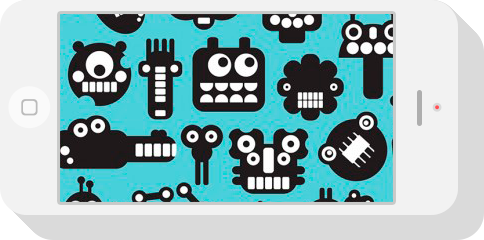
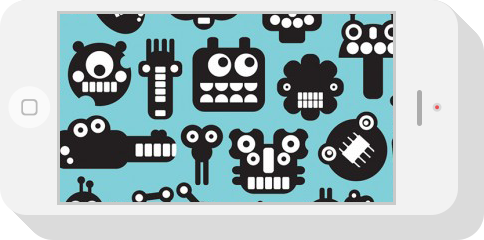
style: fixed style

Changed region(s): [[0.124, 0.0583, 0.8368, 0.8458]]

diff --git a/singolo1.css b/singolo1.css
@@ -95,19 +95,22 @@ p {
 
 .slider {
     background-color: #f06c64;
-    padding: 53px 0 53px;
+    padding: 53px 0 55px;
     border-bottom: 7px solid #ea676b;
 
 }
 .iphone__vertical {
-    position: relative;
-    right: 5px;
+    /* padding-right: 17px; */
+    padding-right: 17px;
+
 }
 
 .iphone_horizontal {
-    position: relative;
-    left: 7px;
-    bottom: 1px;
+    /* padding: 0 0 5px 5px; */
+    /* margin-bottom: 1px;
+    padding-left: 2px; */
+    padding-left: 2px;
+    padding-bottom: 2px;
 }
 
 .slider__main {
@@ -125,18 +128,23 @@ p {
 }
 
 .slider__arrow__left {
-    background: url('./assets/image/prev.png');
-    position: relative;
+    background: url('./assets/image/chev.svg');
+    /* position: relative;
     left: 2px;
-    bottom: 2px;
+    bottom: 2px; */
+    margin-left: 2px;
+    margin-bottom: 2px;
 
 }
 
 .slider__arrow__right {
-    background: url('./assets/image/next.png');
-    position: relative;
+    background: url('./assets/image/chev.svg');
+    /* position: relative;
     left: 1px;
-    bottom: 2px;
+    bottom: 2px; */
+    margin-left: 1px;
+    margin-bottom: 2px;
+    transform: rotate(180deg)
 
 }
 
@@ -147,49 +155,102 @@ p {
 
   .services {
     background-color: #f2f2f2;
-    padding: 62px 0 26px;
+    padding: 55px 0 26px;
   }
-  .services__inner {
-    display: flex;
-    flex-wrap: wrap;
-    justify-content: space-between;
-  }
-  .services__item {
-      width: 33.3%;
+
+  /* .services__main {
       display: flex;
-      flex-direction: row;
-      padding-bottom: 29px;
-  }
-.services__logo {
-    padding-right: 20px;
-}
-.services__title {
+      flex-direction: column; */
+  /* } */
+
+  .services__title {
     color: #666d89;
     font: 700 30px 'latoblack', sans-serif;
-    padding-bottom: 18px;
-    letter-spacing: -1px;
+    padding-bottom: 14px;
+    letter-spacing: -0.01px;
 
 }
 
 .services__text {
+    font: 300 1.8rem/1.7em 'latolight', sans-serif;
     color: #767e9e;
-    font: 300 18px/30px 'latolight', sans-serif;
-    padding-bottom: 44px;
-    letter-spacing: -0.5px;
+    text-align: justify;
+    overflow: hidden;
+    letter-spacing: -0.01875rem;
+}
+
+.services__inner {
+    display: flex;
+    flex-wrap: wrap;
+    padding-top: 12px;
+    justify-content: space-between;
+
+}
+
+.services__item {
+    display: flex;
+    align-items: flex-start;
+    height: 90px;
+    width: 300px;
+    overflow: hidden;
+    margin-top: 33px;
+}
+.services__logo {
+    /* padding-right: 10px; */
+    width: 59px;
+    height: 59px;
+    padding-top: 2px;
+}
+.services__description {
+    padding-left: 20px;
 }
 
 .services__subtitle {
+    font: 700 1.85rem/1em 'latoblack', sans-serif;
+    font-family: 'latoblack';
+    /* font-size: 18px; */
+    letter-spacing: -0.01em;
+    /* line-height: 1; */
     color: #666d89;
-    font: 700 18px 'latoblack', sans-serif;
-    margin-bottom: 9px;
 }
 
 .services__item_text {
+    text-align: justify;
+    font-family: 'latoregular';
+    font-size: 12px;
+    line-height: 1.8em;
     color: #767e9e;
-    font: 300 12px 'latoregular', sans-serif;
-    line-height: 1.75em;
+    padding-top: 10px;
+    letter-spacing: -0.1px;
+}
+/* .services__item {
+    display: flex;
+    align-items: flex-start;
+    height: 90px;
+    width: 33.3%;
+    overflow: hidden;
+    margin-top: 33px;
+    padding-right: 20PX;
 }
 
 .services__description {
-    padding-right: 20px;
+    padding-left: 20px;
 }
+
+.services__subtitle {
+    font-family: 'latoblack';
+    font-size: 18px;
+    letter-spacing: -0.01em;
+    line-height: 1;
+}
+
+
+.services__item_text {
+    text-align: justify;
+    font-family: 'latoregular';
+    font-size: 12px;
+    line-height: 1.8em;
+    color: #767e9e;
+    padding-top: 8px;
+padding-right: 10px;
+} */

diff --git a/singolo1.html b/singolo1.html
@@ -61,7 +61,7 @@
                         </div>
                         <div class="services__description">
                             <h3 class="services__subtitle">Inovative Ideas</h3>
-                            <p class="services__item_text">Quisque luctus, quam eget molestie commodo, lacus purus cursus purus, nec rutrum tellus dolor id lorem.</p>
+                            <p class="services__item_text">Quisque luctus, quam eget molestie com&shymodo, lacus purus cursus purus, nec rutrum tellus dolor id lorem.</p>
                         </div>
                     </div>
                     <div class="services__item">
@@ -79,7 +79,7 @@
                         </div>
                         <div class="services__description">
                             <h3 class="services__subtitle">Responsive Layout</h3>
-                            <p class="services__item_text">Sed porttitor placerat rhoncus. In at nunc tellus. Maecenas blandit nunc ligula. Praesent elit leo.</p>
+                            <p class="services__item_text">Sed porttitor placerat rhoncus. In at nunc tellus. Maecenas blandit nunc ligula. Prae&shysent elit leo.</p>
                         </div>
                     </div>
                     <div class="services__item">
@@ -88,7 +88,7 @@
                         </div>
                         <div class="services__description">
                             <h3 class="services__subtitle">24 / 7 Support</h3>
-                            <p class="services__item_text">Vivamus vel quam lacinia, tincidunt dui non, vehicula nisi. Nulla a sem erat. Pellentesque egestas venenatis lorem .</p>
+                            <p class="services__item_text">Vivamus vel quam lacinia, tincidunt dui non, vehicula nisi. Nulla a sem erat. Pellen&shytesque egestas venenatis lorem.</p>
                         </div>
                     </div>
                     <div class="services__item">
